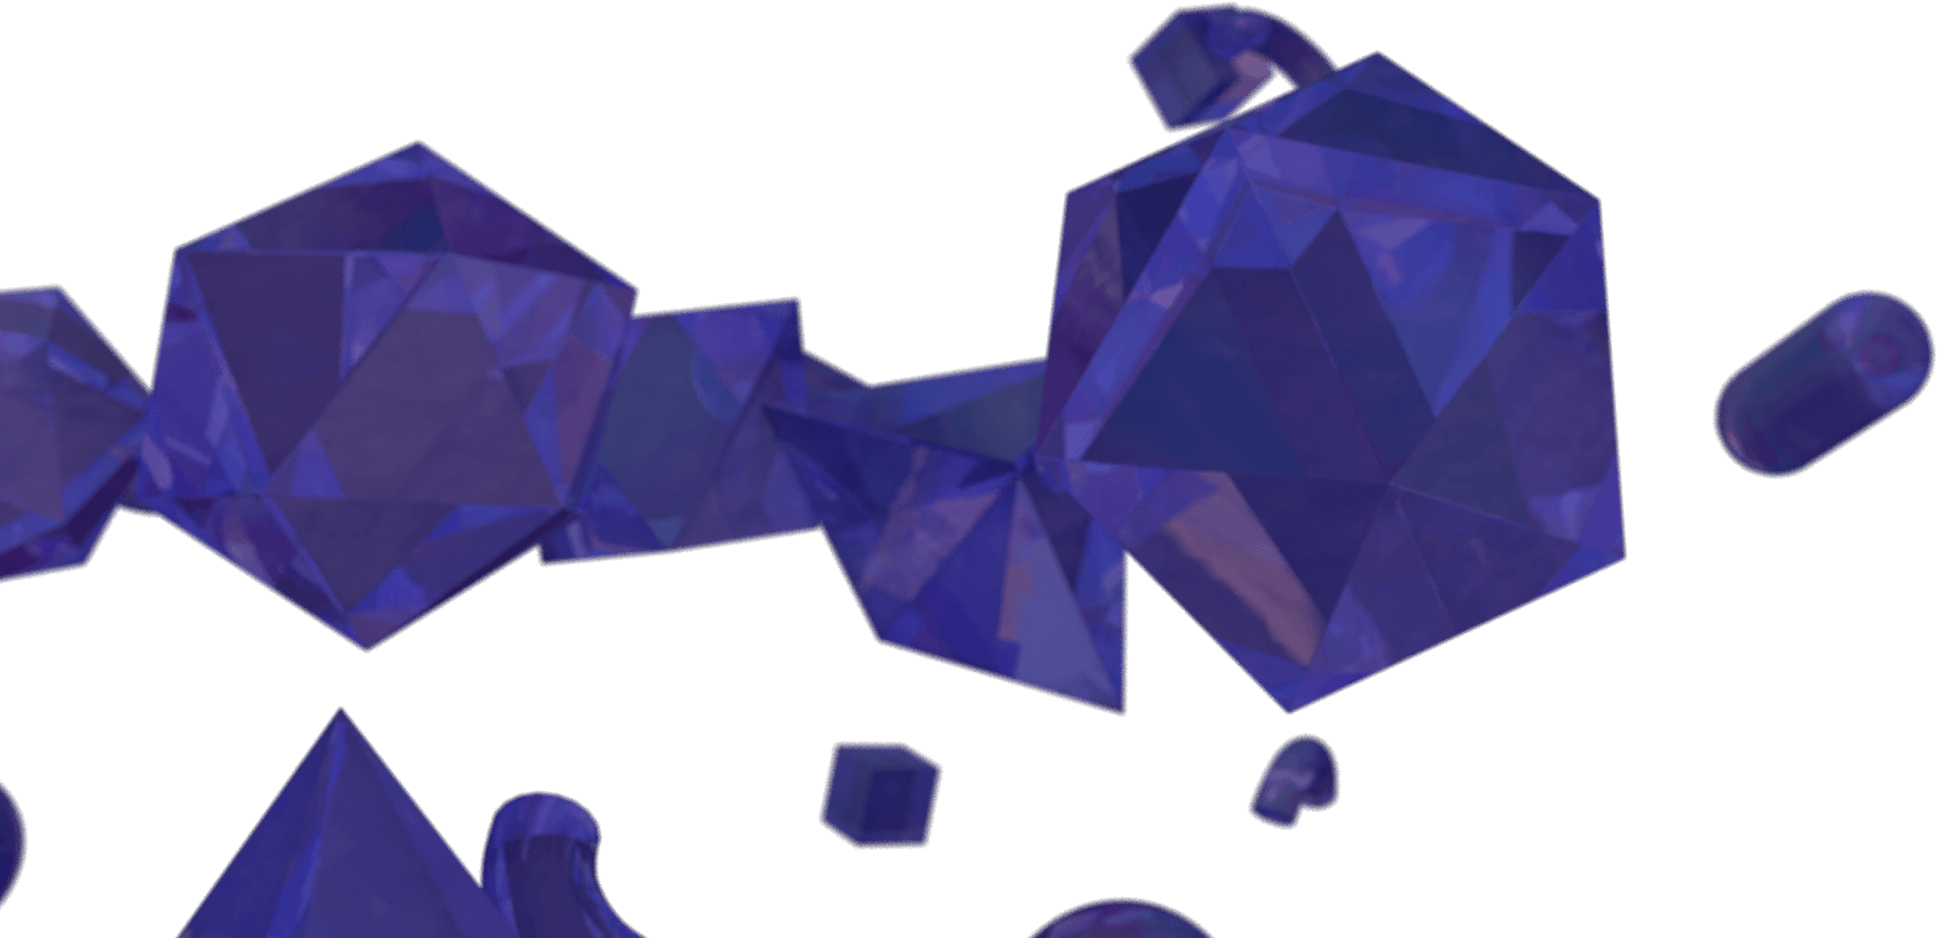
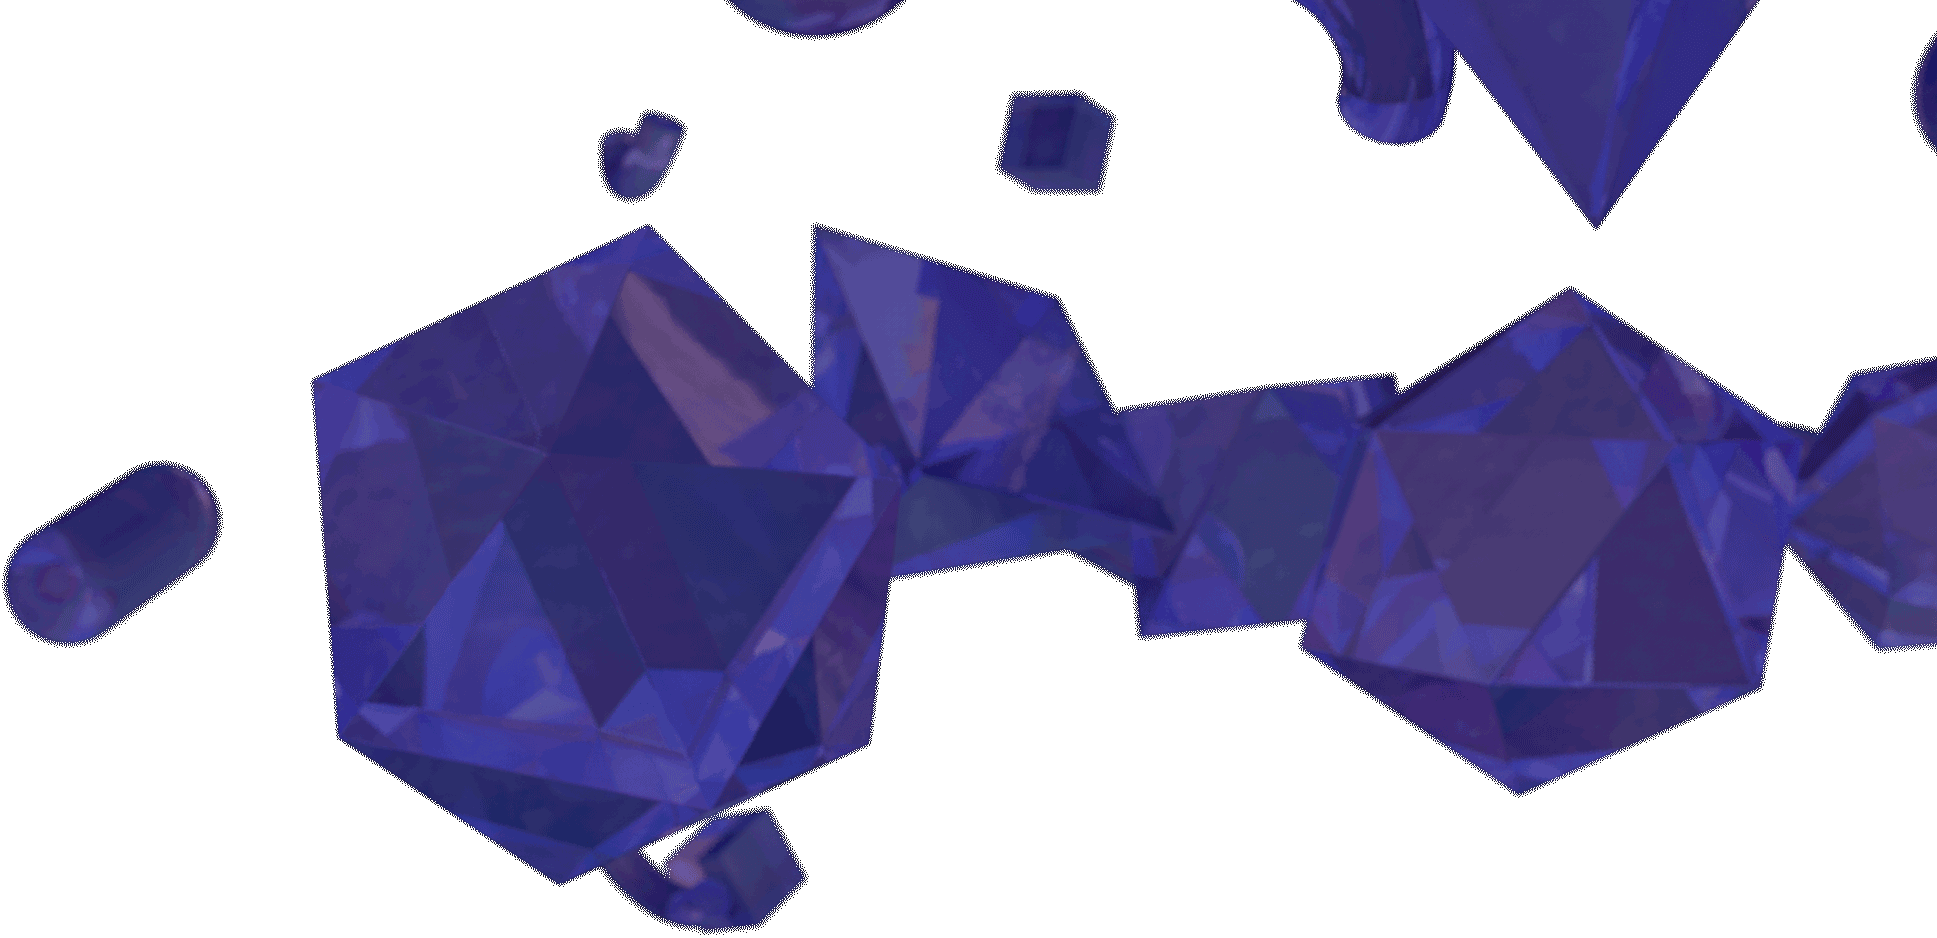
added crystals to non-index pages

diff --git a/src/index.css b/src/index.css
@@ -8,6 +8,9 @@
   src: url('assets/Atlas Grotesk Web-Bold.woff');
   font-weight: bold;
 }
+html {
+  overflow-y: scroll;
+}
 div#root {
   height:100vh;
   max-height: 100%;
@@ -20,6 +23,17 @@ body {
   font-family: 'Atlas Grotesk', sans-serif;
   background-color:#171717;
   color: #9db3fe;
+}
+body.page-background {
+  background-image:url('./assets/crystals1.png');
+  background-size: auto 30vh;
+  background-repeat: no-repeat;
+  background-position: top right;
+  bottom:0;
+  height:100vh;
+  max-height:100%;
+  width:100vw;
+  max-width:100%;
 }
 div.content {
   padding: 1vmax;

diff --git a/src/pages/Home.js b/src/pages/Home.js
@@ -4,9 +4,12 @@ import './Home.css';
 class Home extends React.Component {
   componentDidMount() {
     document.body.classList.toggle("home-background",true);
+    document.body.classList.toggle("page-background",false);
   };
   componentWillUnmount() {
     document.body.classList.toggle("home-background",false);
+    document.body.classList.toggle("page-background",true);
+
   };
 
   render() {

diff --git a/public/index.html b/public/index.html
@@ -26,7 +26,7 @@
   </script>
   <!-- End Google Analytics -->
 </head>
-<body>
+<body class="page-background">
   <div id="root">
   </div>
 </body>
